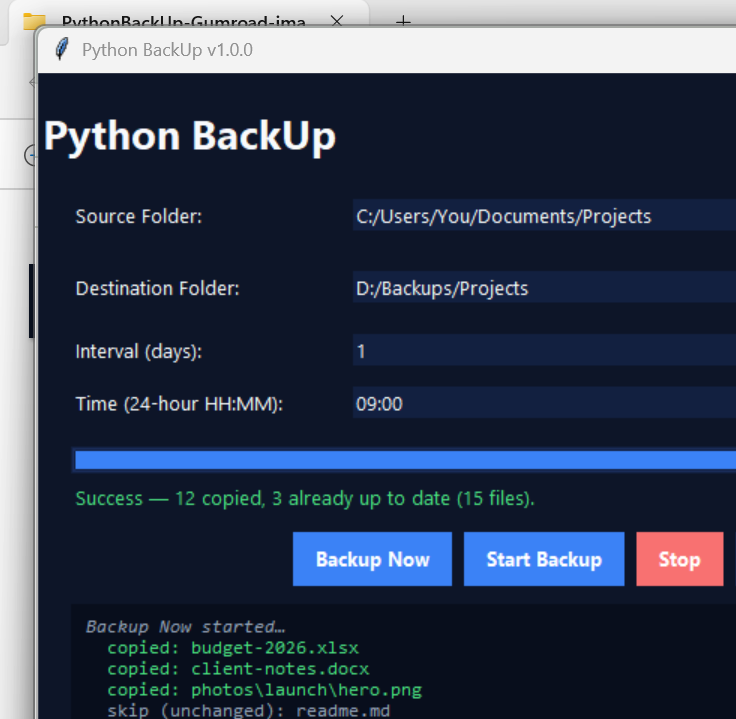
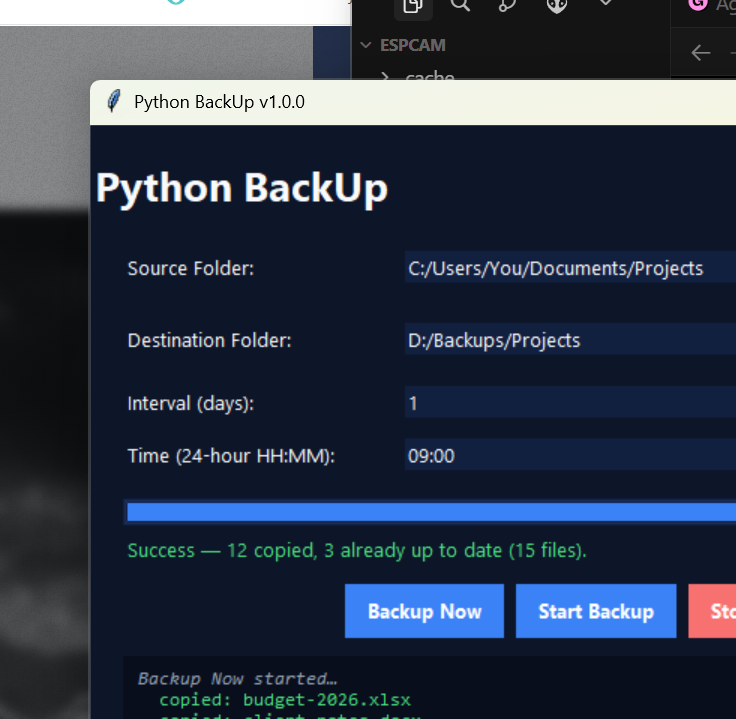
Clarify GitHub-free vs Gumroad-paid messaging in customer docs.
Adds README screenshot, honest license wording in SETUP.txt, Gumroad description reference, and refreshed release zip docs.

diff --git a/README.md b/README.md
@@ -8,14 +8,17 @@ Python BackUp is a small backup utility with a Tkinter GUI. Run a **one-off back
 or **schedule** recurring copies of a folder to a destination. Results are logged to
 CSV files under `logs/`.
 
+![Python BackUp desktop app](docs/screenshot.png)
+
 ## Download (Windows)
 
 No Python required — grab the latest standalone build:
 
-**[Download PythonBackUp-windows.zip](https://github.com/stephenvowell/python-backup/releases/latest)**
+**[Download PythonBackUp-windows.zip](https://github.com/stephenvowell/python-backup/releases/latest)** (free, MIT)
 
-Unzip and follow `SETUP.txt`. Licensed builds also available on
-[Gumroad](https://vowellstephen.gumroad.com/l/tbmyl) · [stephenv.net](https://stephenv.net/#apps).
+Unzip and follow `SETUP.txt`. Prefer to support ongoing development?
+**[Buy on Gumroad](https://vowellstephen.gumroad.com/l/tbmyl)** — same zip, same app.
+Also listed on [stephenv.net](https://stephenv.net/#apps).
 
 ## Features
 